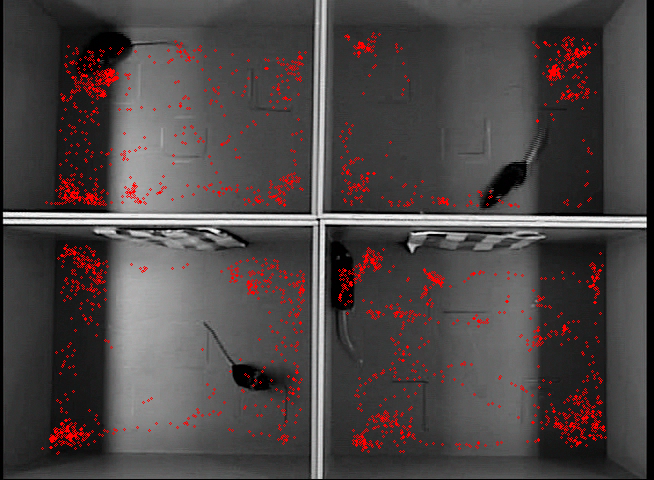
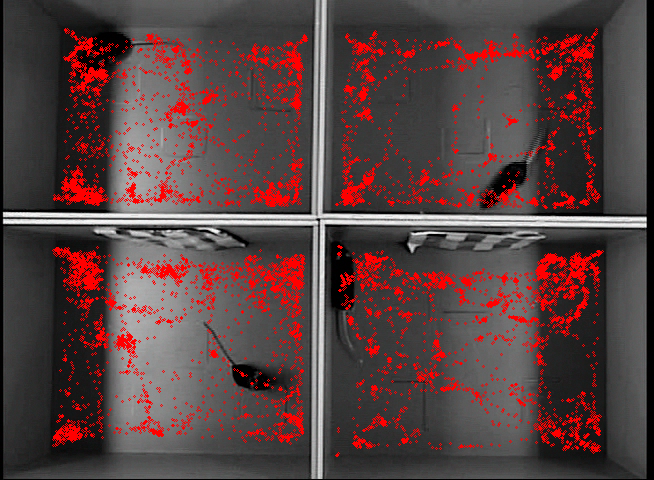
hitting the pause button

diff --git a/test.py b/test.py
@@ -1,5 +1,6 @@
 import cv2,cv
 import numpy as np
+import matplotlib.pyplot as plt
 
 CV_CAP_PROP_POS_MSEC = 0
 CV_CAP_PROP_POS_FRAMES = 1
@@ -33,7 +34,13 @@ width = int(cap.get(3))
 height = int(cap.get(4))
 
 
-
+#import heatmap
+#import random
+#
+#hm = heatmap.Heatmap()
+#pts = [(random.uniform(-77.012, -77.050), random.uniform(38.888, 38.910)) for x in range(100)]
+#hm.heatmap(pts)
+#hm.saveKML("data.kml")
 
 #print frame
 #width = frame.shape[0]
@@ -51,20 +58,28 @@ perc_50_height = int((half_height-half_height*0.35)/2)
 perc_25_width = int((half_width-half_width*0.15)/2)
 perc_25_height = int((half_height-half_height*0.15)/2)
 
-first_upper_left_point1 = tuple([0,0])
-first_upper_left_point2 = tuple([half_width,half_height])
-first_upper_left_75_point1 = tuple([perc_75_width,perc_75_height])
-first_upper_left_75_point2 = tuple([half_width-perc_75_width,half_height-perc_75_height])
-first_upper_left_50_point1 = tuple([perc_50_width,perc_50_height])
-first_upper_left_50_point2 = tuple([half_width-perc_50_width,half_height-perc_50_height])
-first_upper_left_25_point1 = tuple([perc_25_width,perc_25_height])
-first_upper_left_25_point2 = tuple([half_width-perc_25_width,half_height-perc_25_height])
+upper_left_point1 = tuple([0,0])
+upper_left_point2 = tuple([half_width,half_height])
+upper_left_75_point1 = tuple([perc_75_width+15,perc_75_height+5])
+upper_left_75_point2 = tuple([half_width-perc_75_width+15,half_height-perc_75_height-5])
+upper_left_50_point1 = tuple([perc_50_width+15,perc_50_height+5])
+upper_left_50_point2 = tuple([half_width-perc_50_width+15,half_height-perc_50_height-5])
+upper_left_25_point1 = tuple([perc_25_width+15,perc_25_height+5])
+upper_left_25_point2 = tuple([half_width-perc_25_width+15,half_height-perc_25_height-5])
+upper_right_point1 = tuple([half_width,0])
+upper_right_point2 = tuple([width,half_height])
+upper_right_75_point1 = tuple([half_width+perc_75_width-15,perc_75_height+5])
+upper_right_75_point2 = tuple([width-perc_75_width-15,half_height-perc_75_height-5])
+upper_right_50_point1 = tuple([half_width+perc_50_width-15,perc_50_height+5])
+upper_right_50_point2 = tuple([width-perc_50_width-15,half_height-perc_50_height-5])
+upper_right_25_point1 = tuple([half_width+perc_25_width-15,perc_25_height+5])
+upper_right_25_point2 = tuple([width-perc_25_width-15,half_height-perc_25_height-5])
 
-first_upper_right_point1 = tuple([half_width,0])
-first_upper_right_point2 = tuple([width,half_height])
 
 _,frame2 = cap.read()
 
+x = []
+y = []
 
 # convert to hsv and find range of colors
 #hsv = cv2.cvtColor(frame_cross,cv2.COLOR_BGR2HSV)
@@ -73,7 +88,7 @@ _,frame2 = cap.read()
 print half_width
 print half_height
 frame_number = cap.get(CV_CAP_PROP_POS_FRAMES)
-while(frame_number < 1550):
+while(frame_number < 5000):
     frame_number = cap.get(CV_CAP_PROP_POS_FRAMES)
     # read the frames
     _,frame = cap.read()
@@ -125,10 +140,12 @@ while(frame_number < 1550):
     end = tuple([half_width,height])
     cv2.line(frame,start,end,cv.CV_RGB(255,0,255))
     cv2.line(frame,start,end,cv.CV_RGB(255,0,255))
-    cv2.rectangle(frame,first_upper_left_75_point1,first_upper_left_75_point2,cv.CV_RGB(255,0,255))
-    cv2.rectangle(frame,first_upper_left_50_point1,first_upper_left_50_point2,cv.CV_RGB(255,0,255))
-    cv2.rectangle(frame,first_upper_left_25_point1,first_upper_left_25_point2,cv.CV_RGB(255,0,255))
-    cv2.line(frame,first_upper_right_point1,first_upper_right_point2,cv.CV_RGB(255,0,255))
+    cv2.rectangle(frame,upper_left_75_point1,upper_left_75_point2,cv.CV_RGB(255,0,255))
+    cv2.rectangle(frame,upper_left_50_point1,upper_left_50_point2,cv.CV_RGB(255,0,255))
+    cv2.rectangle(frame,upper_left_25_point1,upper_left_25_point2,cv.CV_RGB(255,0,255))
+    cv2.rectangle(frame,upper_right_75_point1,upper_right_75_point2,cv.CV_RGB(255,0,0))
+    cv2.rectangle(frame,upper_right_50_point1,upper_right_50_point2,cv.CV_RGB(255,0,0))
+    cv2.rectangle(frame,upper_right_25_point1,upper_right_25_point2,cv.CV_RGB(255,0,0))
 
     for cnt in contours2:
         summe = [0,0]
@@ -139,9 +156,12 @@ while(frame_number < 1550):
             number_of_points = number_of_points + 1
             summe = [summe[0]+point[0][0],summe[1]+point[0][1]]
         mid_point = [summe[0]/number_of_points,summe[1]/number_of_points]
+        x.append(mid_point[0])
+        y.append(mid_point[1])
         mid_point = tuple([int(mid_point[0]),int(mid_point[1])])
         cv2.circle(frame2,mid_point, 1, cv.CV_RGB(255,0,0))
         cv2.circle(frame,mid_point, 1, cv.CV_RGB(255,0,0))
+
     #print contours
     # finding centroids of best_cnt and draw a circle there
     #M = cv2.moments(best_cnt)
@@ -149,12 +169,30 @@ while(frame_number < 1550):
     #cv2.circle(frame,(cx,cy),5,255,-1)
 
     # Show it, if key pressed is 'Esc', exit the loop
-    cv2.imshow('frame',frame)
+
     cv2.imshow('thresh',thresh2)
     cv2.imshow('contour',frame2)
+    cv2.imshow('frame',frame)
     if cv2.waitKey(33)== 27:
         break
 cv2.imwrite("tra.png",frame2)
 # Clean up everything before leaving
 cv2.destroyAllWindows()
 cap.release()
+
+
+#
+## Generate some test data
+#
+#
+heatmap, xedges, yedges = np.histogram2d(x, y, bins=50)
+extent = [xedges[0], xedges[-1], yedges[0], yedges[-1]]
+#
+plt.clf()
+
+plt.imshow(heatmap, extent=extent)
+cb = plt.colorbar()
+cb.set_label('mean value')
+plt.savefig("heatmap.png")
+
+
